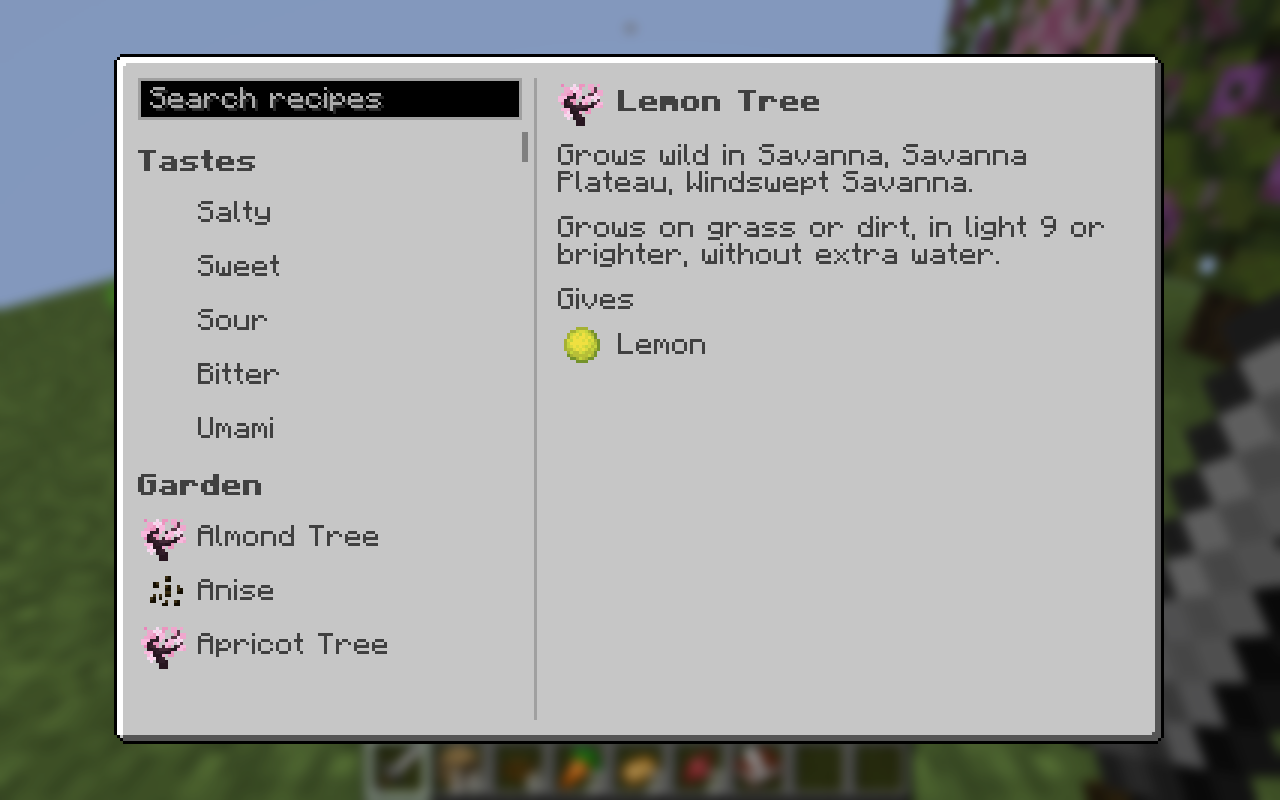
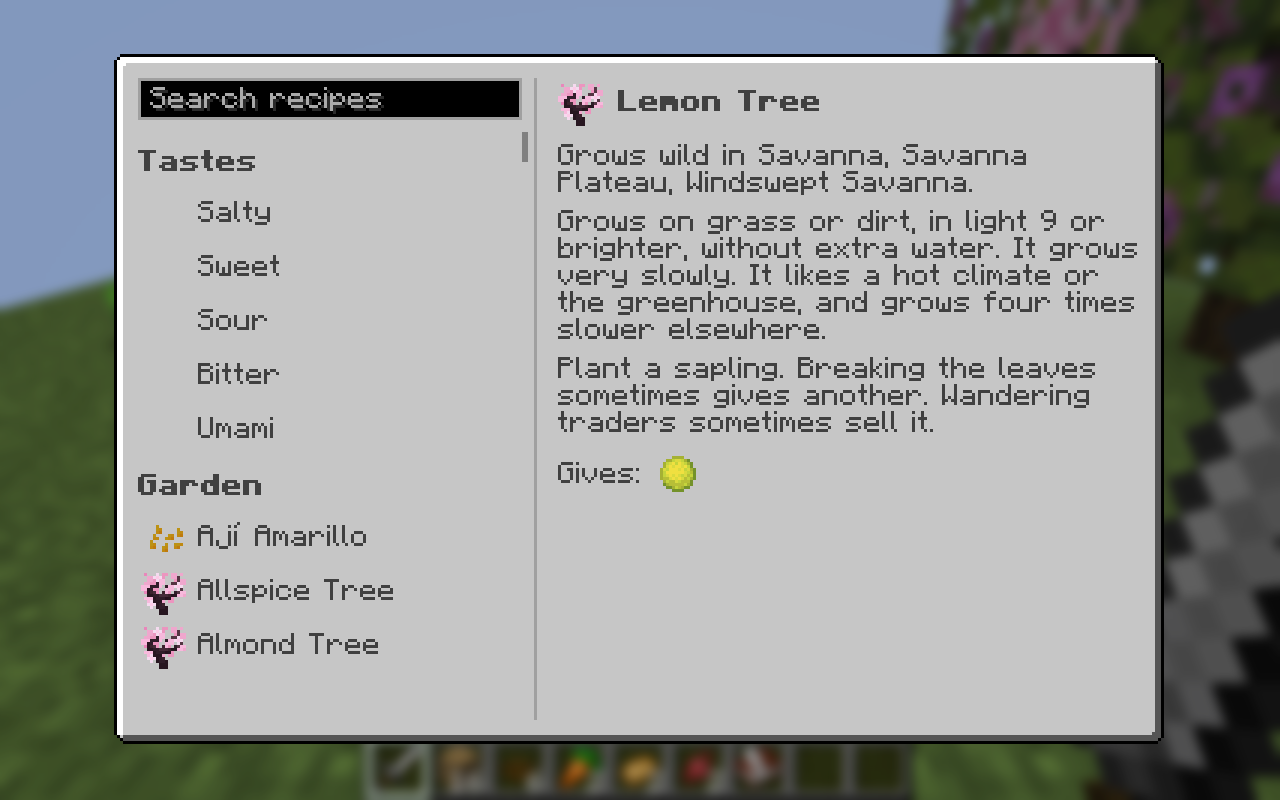
Document compost and rich soil, and finish B-0054
README covers compost, rich soil, and the fuller Garden pages. New Garden page
screenshots show a shellfish bed, lettuce, asparagus, and the cardoon, and the
garden scene grows crops on rich farmland. B-0054 leaves the backlog.

Claude-Session: https://claude.ai/code/session_015LnbBras9DEmUQEKydUTyp

diff --git a/src/gametest/java/dev/portablepocketcabin/CookingScreenshots.java b/src/gametest/java/dev/portablepocketcabin/CookingScreenshots.java
@@ -122,7 +122,9 @@ final class CookingScreenshots {
 			String[] crops = {"barley", "corn", "cabbage", "onion", "lettuce", "radish", "cilantro", "garlic"};
 			for (int i = 0; i < crops.length; i++) {
 				var pos = base.offset(-4 + i + (i >= 4 ? 1 : 0), 0, 4);
-				level.setBlockAndUpdate(pos.below(), Blocks.FARMLAND.defaultBlockState());
+				// B-0054: the first four crops grow on rich farmland made with compost.
+				level.setBlockAndUpdate(pos.below(), i < 4 ? RichSoil.RICH_FARMLAND.defaultBlockState()
+					.setValue(net.minecraft.world.level.block.FarmlandBlock.MOISTURE, 7) : Blocks.FARMLAND.defaultBlockState());
 				var crop = (net.minecraft.world.level.block.CropBlock) CookingPlants.PLANTS.get(crops[i]);
 				level.setBlockAndUpdate(pos, crop.getStateForAge(crops[i].equals("cilantro") ? 6 : crops[i].equals("onion") ? 5 : 7));
 			}
@@ -187,6 +189,11 @@ final class CookingScreenshots {
 		shot(context, "cookbook-garden-cinnamon");
 		context.runOnClient(client -> ((CookbookScreen) client.gui.screen()).selectPlant("coconut_leaves"));
 		shot(context, "cookbook-garden-coconut");
+		// B-0054: a spreading shellfish bed, a leafy crop that goes to seed, a perennial crown, and the cardoon.
+		for (String plant : new String[] {"mussel_bed", "lettuce", "asparagus", "cardoon"}) {
+			context.runOnClient(client -> ((CookbookScreen) client.gui.screen()).selectPlant(plant));
+			shot(context, "cookbook-garden-" + plant.replace('_', '-'));
+		}
 		context.runOnClient(client -> client.gui.setScreen(null));
 	}
 

diff --git a/.workflow/features/B-0054/design.md b/.workflow/features/B-0054/design.md
@@ -248,3 +248,15 @@ Choices made while building pull requests 1 and 2, where the design left room:
 - **Cardoon:** using a grown cardoon cuts one or two flowers and sets it back one stage, to flower again.
 - **Data scripts:** `.workflow/cooking/tools/harvest_models.py` writes the crop and vine loot tables, and `growing_difficulty.py` writes each plant's tier and climate. Climate comes from the median temperature of the biomes a plant grows wild in. A few plants override it: wasabi, the highland Andean crops, and the coconut palm.
 - **Shade:** shade-needing plants check it at every stage. Fruiting leaves check it too, so coffee fruits on leaves under the canopy.
+
+Pull request 3:
+
+- **Rich ground texture:** rich soil and rich farmland use the rooted dirt texture until B-0034.
+- **Soil checks:** a plant whose growing needs name farmland or dirt also accepts the rich kind.
+- **Spending:** besides a player breaking a ripe crop, picking a ripe bush, vine, perennial crown, or cardoon spends a charge.
+- **Cardoon:** it reads its growing needs from data, so it gets a speed tier and climate and grows in greenhouse catch-up.
+- **Gives:** a grain lists only itself, even where an item named after the plant is something made from it, such as wasabi paste.
+- **Garden page:**
+  - The pace joins the needs paragraph, and Gives is a row of items with names on hover, so every page fits.
+  - The model line replaces the per-plant cutting notes.
+- **`--growable`:** it reads what plants give from their registrations in `CookingPlants.java`, and fish from the fishing loot table.

diff --git a/README.md b/README.md
@@ -115,7 +115,9 @@ Plants also grow at different speeds:
 - Each plant prefers a cold, temperate, warm, or hot climate, and grows at a quarter of its pace elsewhere. The cabin greenhouse suits every climate.
 - Wasabi, vanilla, coffee, and cardamom need shade.
 
-The cookbook's Garden page shows each plant's pace and climate.
+The cookbook's Garden page shows each plant's pace and climate, how it multiplies, whether it spreads, and whether wandering traders sell it. Every food plant can be grown, and the cardoon has a page too.
+
+**Compost and rich soil.** The composter makes compost instead of bone meal; bone meal still comes from bones. Use compost on farmland for rich farmland, or on dirt or grass for rich soil, which a hoe tills into rich farmland. A plant on rich ground grows about twice as fast. Each ripe harvest from it spends some of its richness, and after about four it turns back into plain farmland or dirt; more compost tops it up. Rich farmland that dries out or is trampled becomes rich soil. Greenhouse beds can be composted like any farmland.
 
 Each plant's growing needs, such as soil, light, and water, are data, and the cookbook's Garden section shows where it grows and what it needs. The plants complete new chains: rye bread, corn tortillas, sauerkraut, gherkins, wine vinegar, mustard and mayonnaise, jams, nori, cassis, redcurrant jelly, rødgrød, salsas, spices, red wine, Käsekuchen, Madeleines, and more.
 

diff --git a/.workflow/backlog.md b/.workflow/backlog.md
@@ -260,15 +260,6 @@ Implemented items leave the backlog. Their briefs and designs stay in [features]
 - Feature Brief: [Book vendors brief](features/B-0044/brief.md).
 - Relationships: Supplies books for the B-0038 installation flow.
 
-## B-0054: Grow every food
-
-- Status: In Progress (PR 1 and 2 of 3 done: apples, sea plants, shellfish, greenhouse catch-up, harvest models, growing difficulty. PR 3: compost, rich soil, Garden pages, growability check)
-- Value: Let players grow every plant food and shellfish they find, so that planting it gives more back. This covers apples from an apple tree, sea plants and shellfish beds that grow and spread, and prawn traps in any water. It also covers varied harvests (seeds, the same grain, leaf then seed, and cuttings taken with shears), harder and slower plants, and compost that makes soil rich for faster growth.
-- Direction: [Cooking and food production](direction.md#cooking-and-food-production).
-- Relationships: Extends B-0050 plants and B-0049 shellfish, and the greenhouse in B-0019. Animals and fish stay with B-0022 and B-0021.
-- Feature Brief: [Grow every food brief](features/B-0054/brief.md).
-- Design: [Grow every food design](features/B-0054/design.md).
-
 ## B-0051: Food benefits
 
 - Status: Ready for Shape
